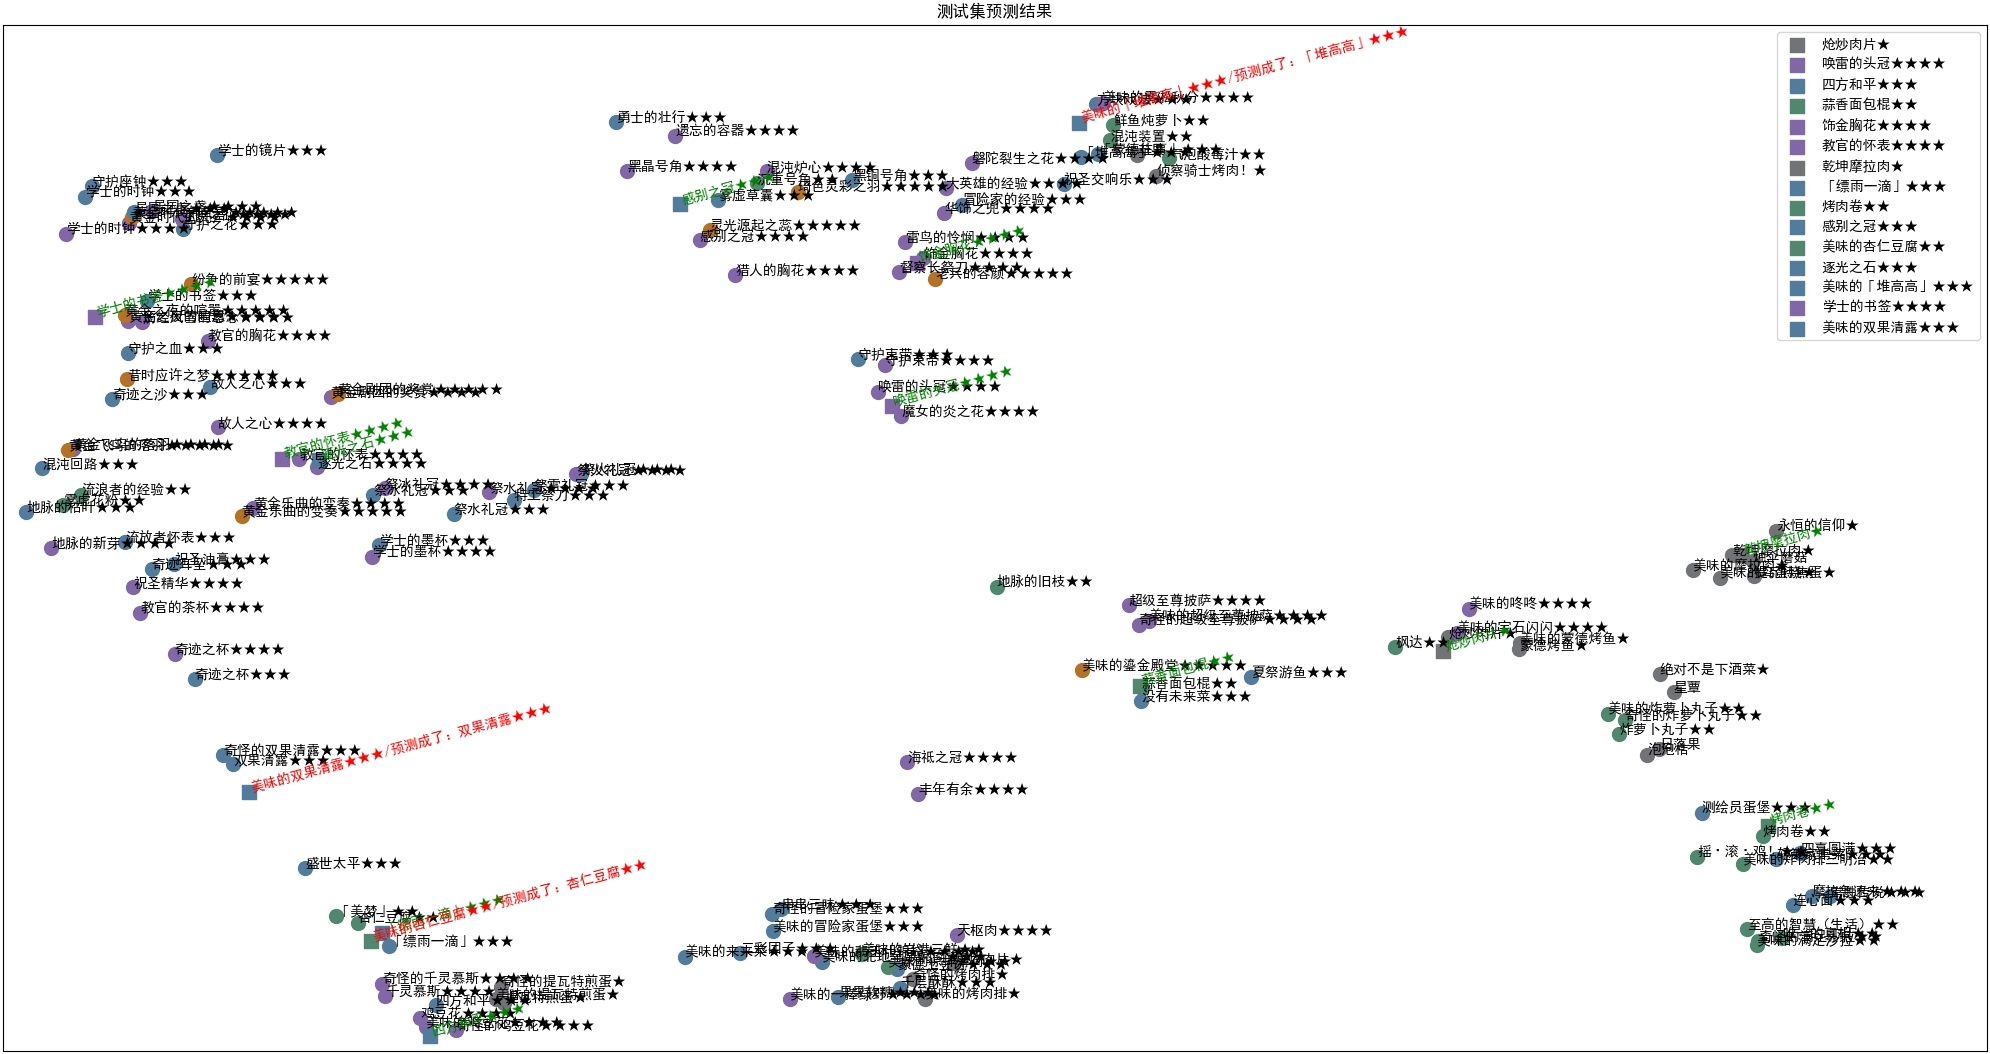
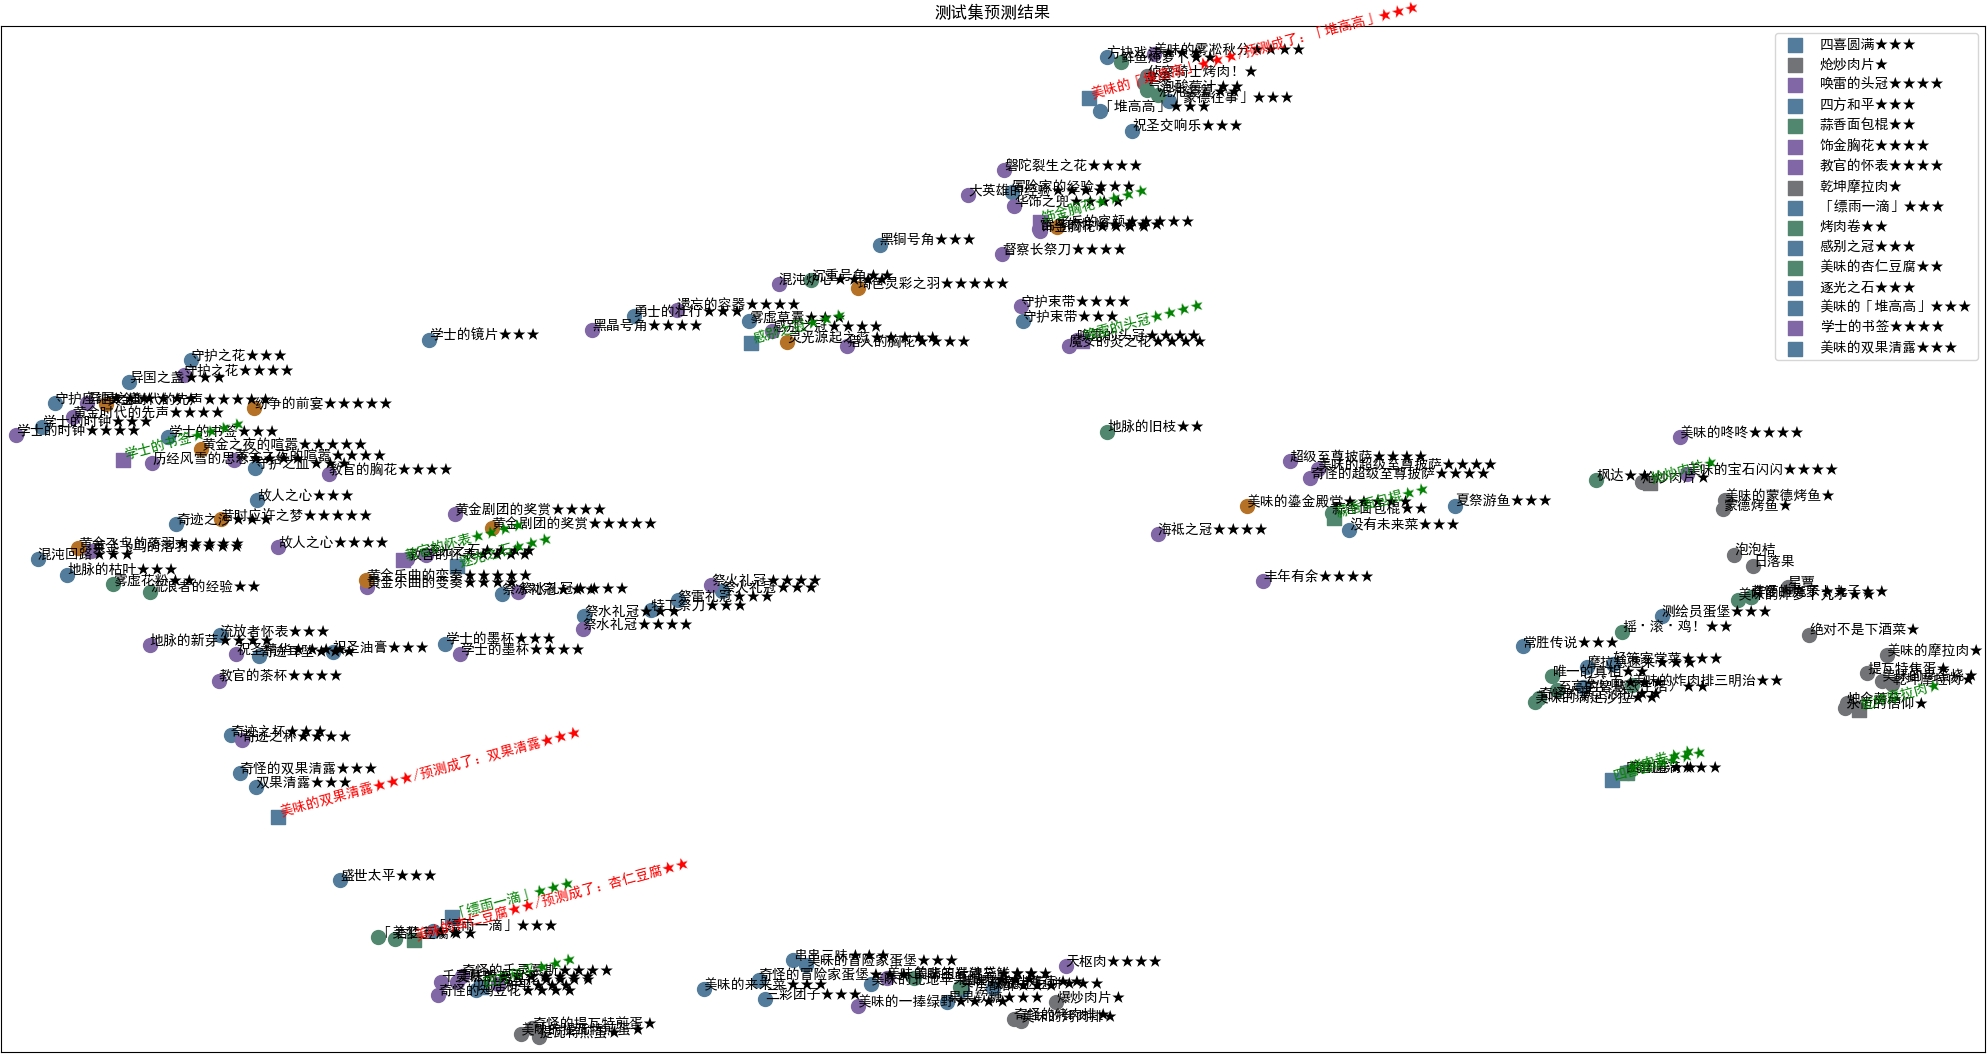
修复读取测试集列表遗漏第一行数据的bug

diff --git a/test.py b/test.py
@@ -87,7 +87,7 @@ if __name__ == '__main__':
     dataloader = DataLoader(dataset, batch_size=batch_size, shuffle=True)
     class_prototypes = compute_class_prototypes(model, dataloader, device)
     
-    df = pd.read_csv('测试集列表.csv')
+    df = pd.read_csv('测试集列表.csv', header=None)
     test_set : list[list[str]] = df.values.tolist()
     datasetTest = MyDataset([x for row in test_set for x in row], transform=transform)
     model.eval()

diff --git a/test_onnx.py b/test_onnx.py
@@ -32,7 +32,7 @@ if __name__ == '__main__':
     dataloader = DataLoader(dataset, batch_size=batch_size, shuffle=True)
     class_prototypes = compute_class_prototypes(session, dataloader, device)
     
-    df = pd.read_csv('测试集列表.csv')
+    df = pd.read_csv('测试集列表.csv', header=None)
     test_set : list[list[str]] = df.values.tolist()
     datasetTest = MyDataset([x for row in test_set for x in row], transform=transform)
 

diff --git a/README.md b/README.md
@@ -56,7 +56,7 @@
 使用UMAP对原型特征向量进行降维，观察效果：
 ![测试集预测结果](docs/测试集预测结果.png)  
 可以看到：
-* 训练集自身位置在降维后的向量空间中用横平的黑色字体表示，测试集则用倾斜的彩色字体表示，单样本/双样本/三样本输入测试集的数量为10/5/1，结果：物品分类的准确率是15/15，星级分类的准确率是15/15，而美味程度的准确率未满，但是考虑到该子任务的缺陷这是可以接受的。
+* 训练集自身位置在降维后的向量空间中用横平的黑色字体表示，测试集则用倾斜的彩色字体表示，单样本/双样本/三样本输入测试集的数量为10/5/1，结果：物品分类和星级分类的准确率都是16/16，而美味程度分类的准确率未满，但是考虑到该子任务的缺陷这是可以接受的。
 * 食物、圣遗物和养成道具的三个类别基本有了各自的分布
 * 没有相同的分类标签但图案相近、游戏中关联密切的样本有了一点聚簇，如“杏仁豆腐、「美梦」[图片参考](https://wiki.biligame.com/ys/%E6%9D%8F%E4%BB%81%E8%B1%86%E8%85%90)”、“满足沙拉、至高的智慧（生活）[图片参考](https://wiki.biligame.com/ys/%E6%BB%A1%E8%B6%B3%E6%B2%99%E6%8B%89)”
 
